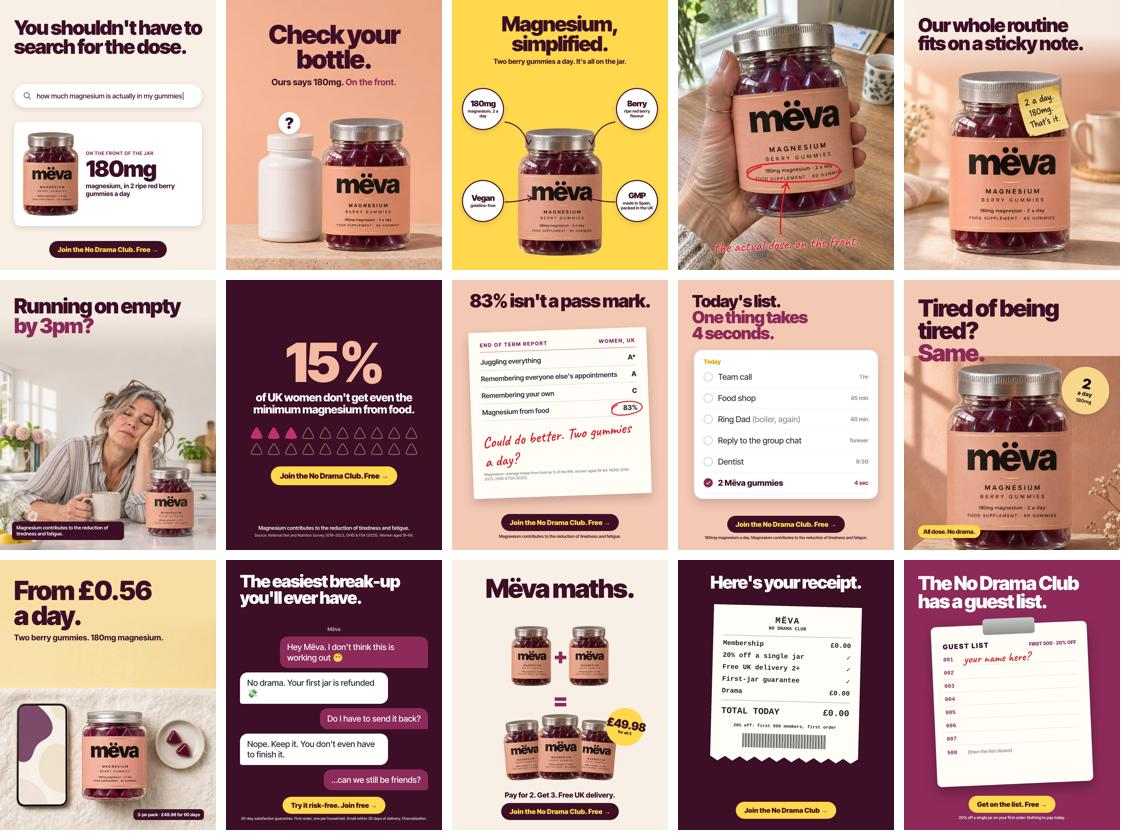
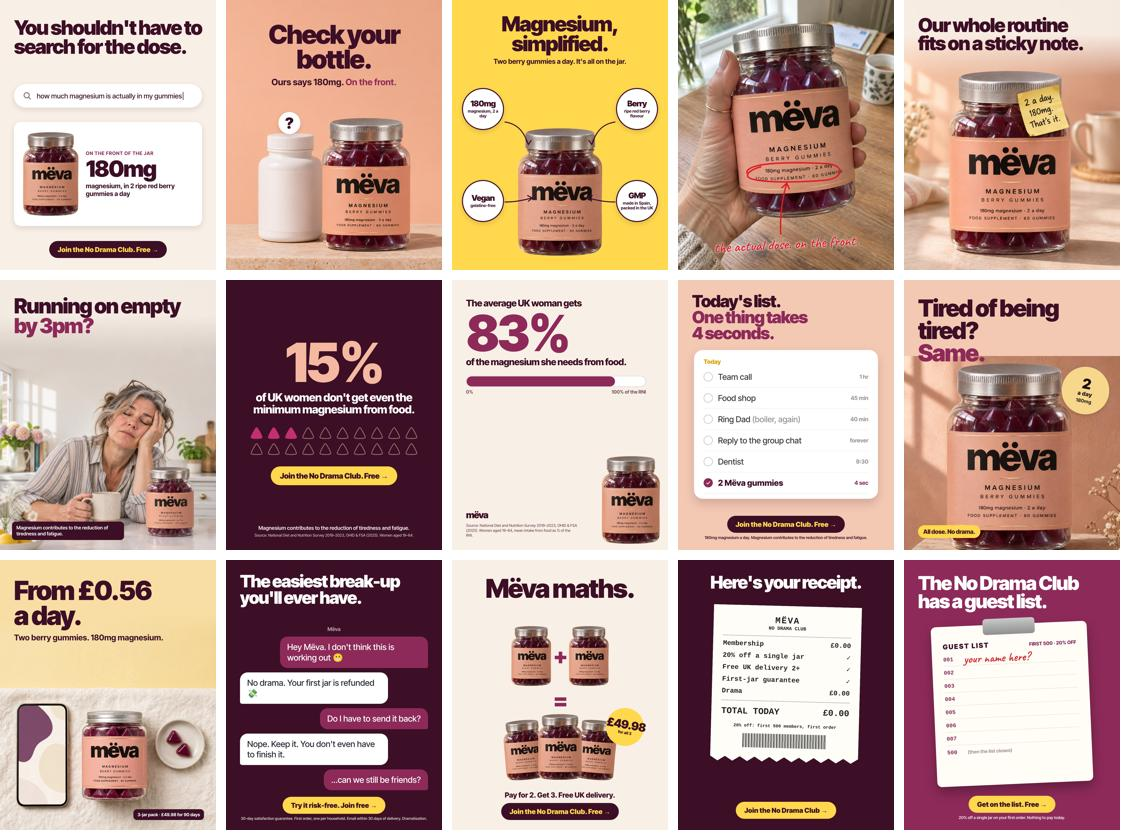
Mëva ads: B3 back to original 83% design
Claude-Session: https://claude.ai/code/session_01WXdKv1YfkNwKWVtsSuXmEc

Changed region(s): [[0.4027, 0.3095, 0.5885, 0.681]]

diff --git a/meva/ads/campaign-r1-spec.md b/meva/ads/campaign-r1-spec.md
@@ -24,7 +24,7 @@
 - Images: feed JPGs. Their public URLs are in `2026-11-13/_image-urls.json`.
 - Link: `https://trymeva.co/products/meva-magnesium-gummies`
 - URL parameters (url_tags on every ad): `utm_source=meta&utm_medium=paid_social&utm_campaign={{campaign.name}}&utm_term={{adset.name}}&utm_content={{ad.name}}&placement={{placement}}`
-- Ad names: `A1_search-dose`, `A2_check-bottle`, `A3_simplified`, `A4_circled-dose`, `A5_sticky-note`, `B1_3pm-empty`, `B2_15pct`, `B3_report-card`, `B4_todo-4sec`, `B5_tired-same`, `C1_056-a-day`, `C2_breakup`, `C3_meva-maths`, `C4_receipt`, `C5_guest-list`
+- Ad names: `A1_search-dose`, `A2_check-bottle`, `A3_simplified`, `A4_circled-dose`, `A5_sticky-note`, `B1_3pm-empty`, `B2_15pct`, `B3_83pct`, `B4_todo-4sec`, `B5_tired-same`, `C1_056-a-day`, `C2_breakup`, `C3_meva-maths`, `C4_receipt`, `C5_guest-list`
 - Headline: "Join free: 20% off your first jar"
 - Description: "Nothing to pay today"
 - CTA: SIGN_UP
